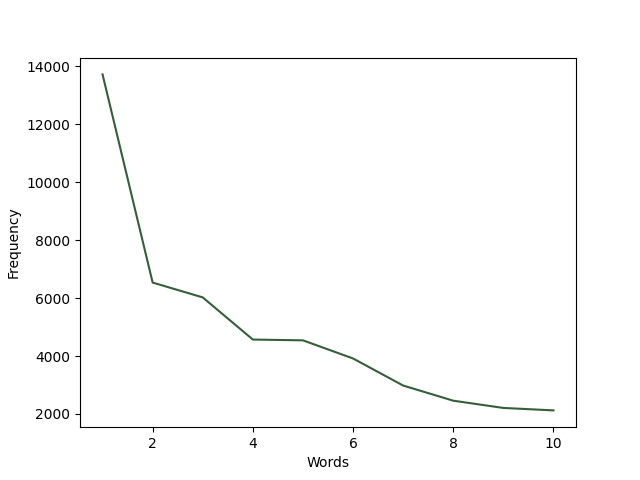
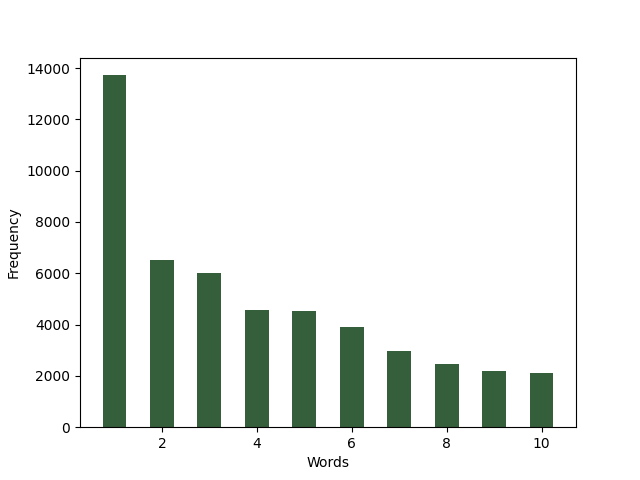
fix(L2:E2): change try chart to bar

diff --git a/Lab_2/Exercise1/try.py b/Lab_2/Exercise1/try.py
@@ -19,7 +19,7 @@ print(words)
 print(x_points)
 print(y_points)
 
-plt.plot(x_points, y_points, color="#355E3B", label=words)
+plt.bar(x_points, y_points, color="#355E3B", width=0.5, label=words)
 plt.xlabel("Words")
 plt.ylabel("Frequency")
 plt.savefig("first_n_fequency")
